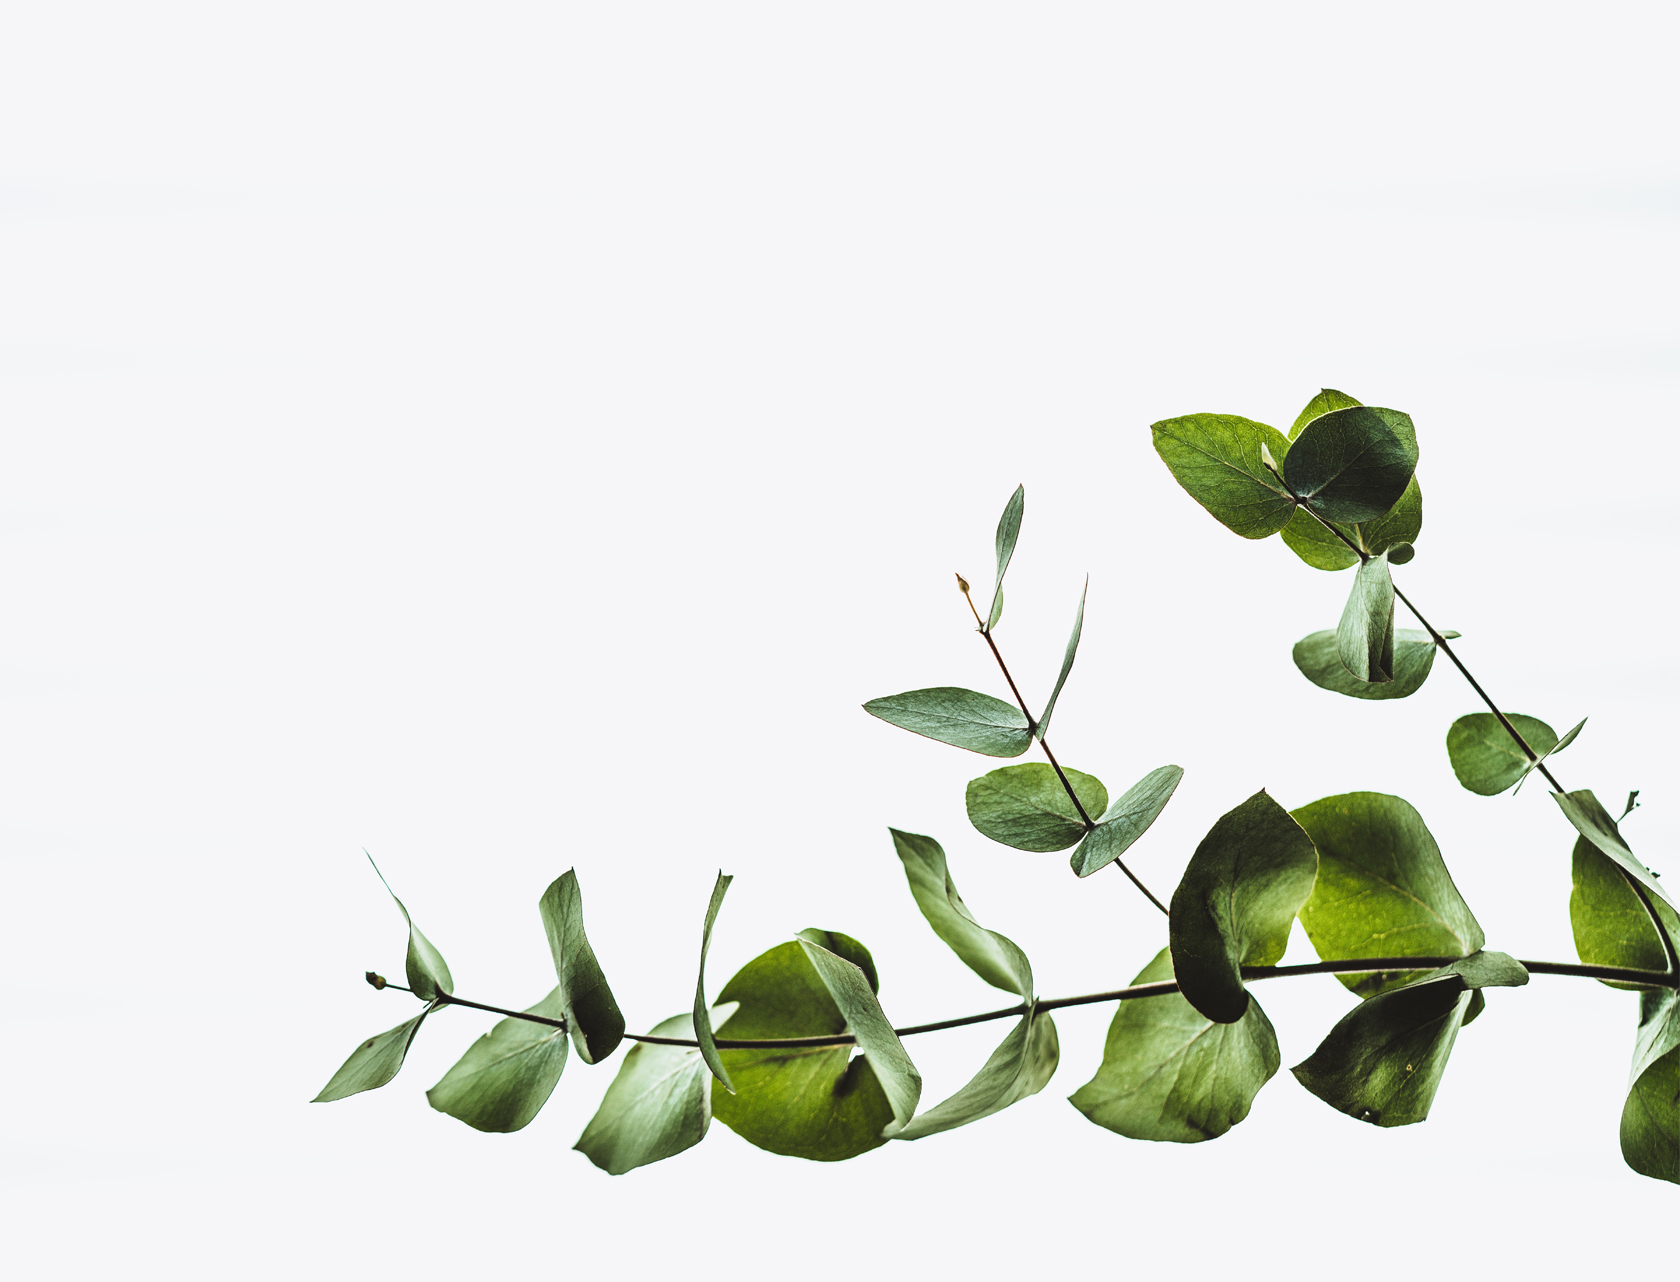
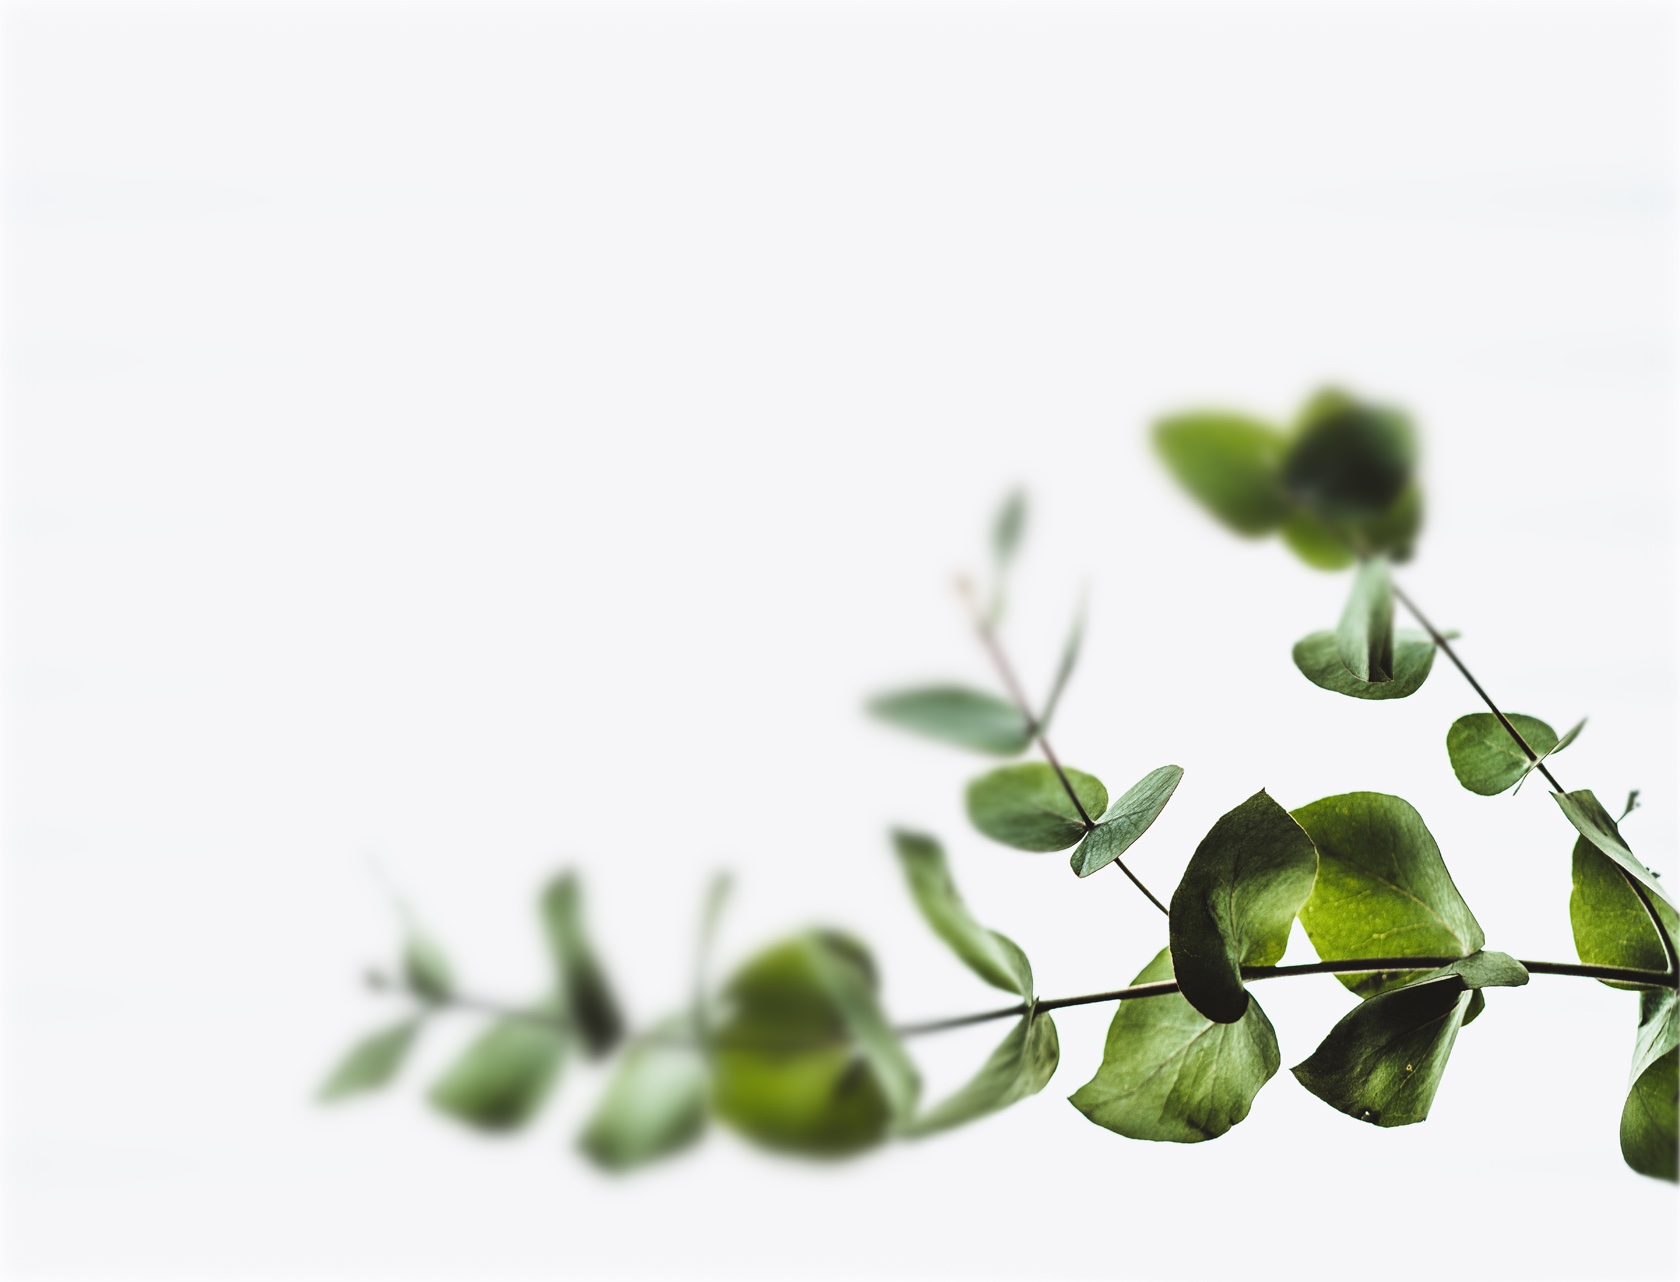
changed bg img, added a new one with a blur and added a new property to bg

diff --git a/style.css b/style.css
@@ -66,6 +66,7 @@ body {
     background: url(./img/hero-background.jpg) no-repeat;
     background-position: left;
     background-size: cover;
+    background-attachment: fixed;
 }
 
 .maincontainer {
@@ -78,7 +79,7 @@ body {
     overflow-x: hidden;
     overflow-y: hidden;
     background: linear-gradient(180deg, rgba(255, 255, 255, 0.3) 0%, rgba(255, 255, 255, 0.09) 100%);
-    backdrop-filter: blur(2px);
+    /*backdrop-filter: blur(2px);*/
 }
 
 nav.subcontainer.logo {
